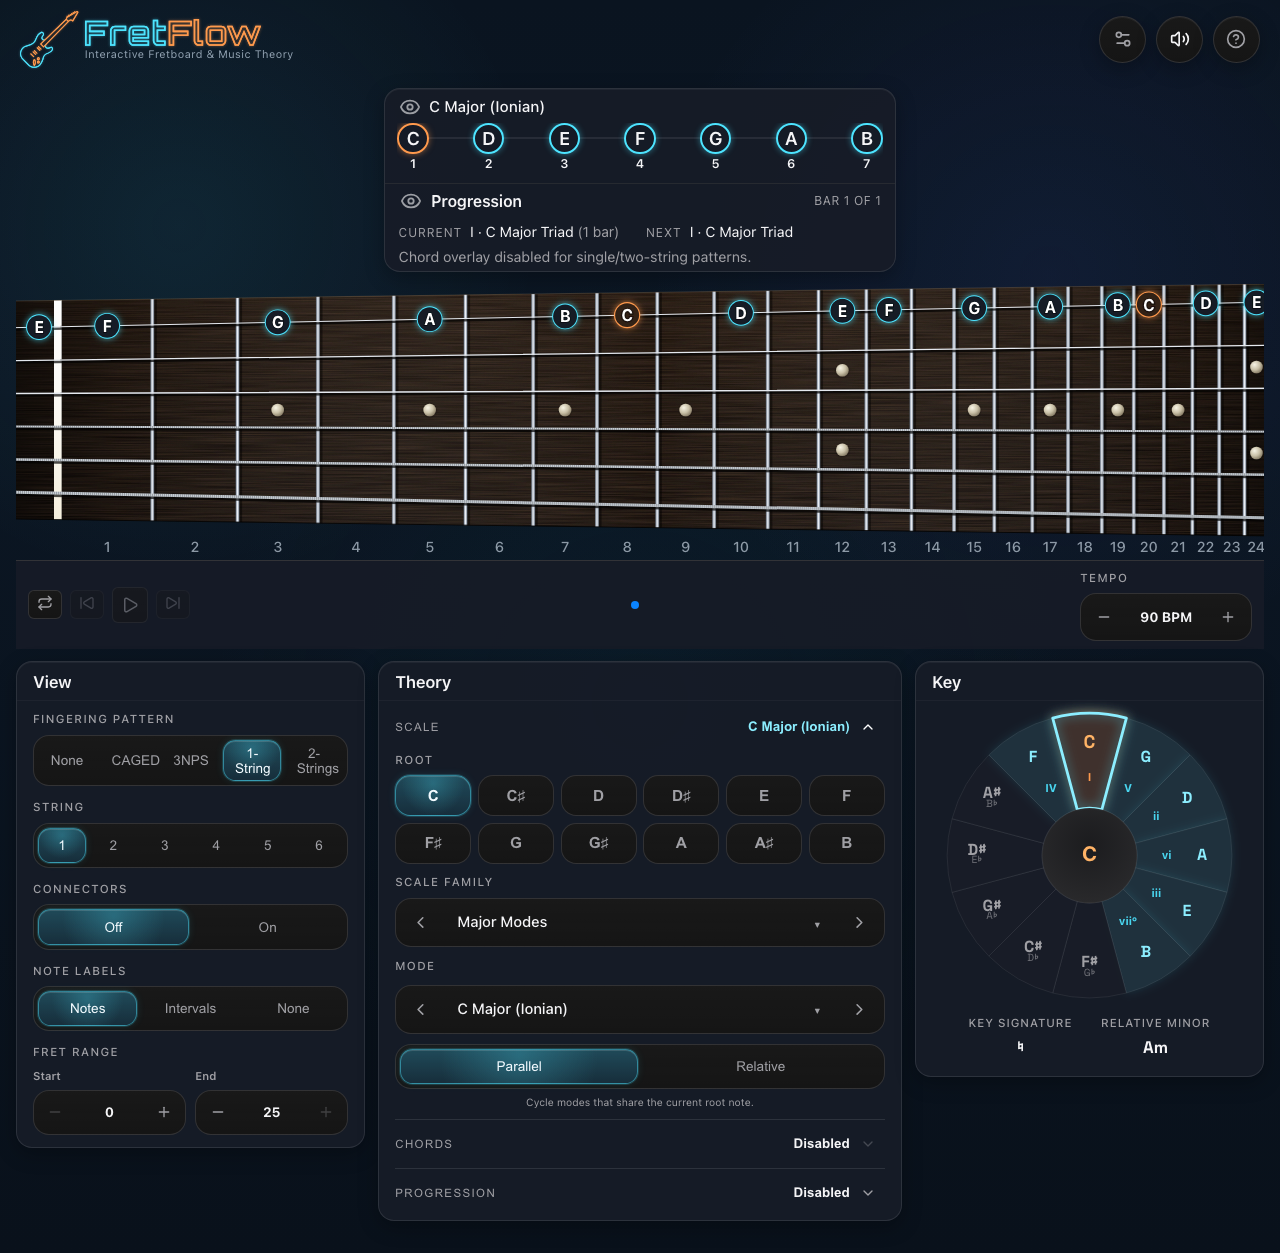
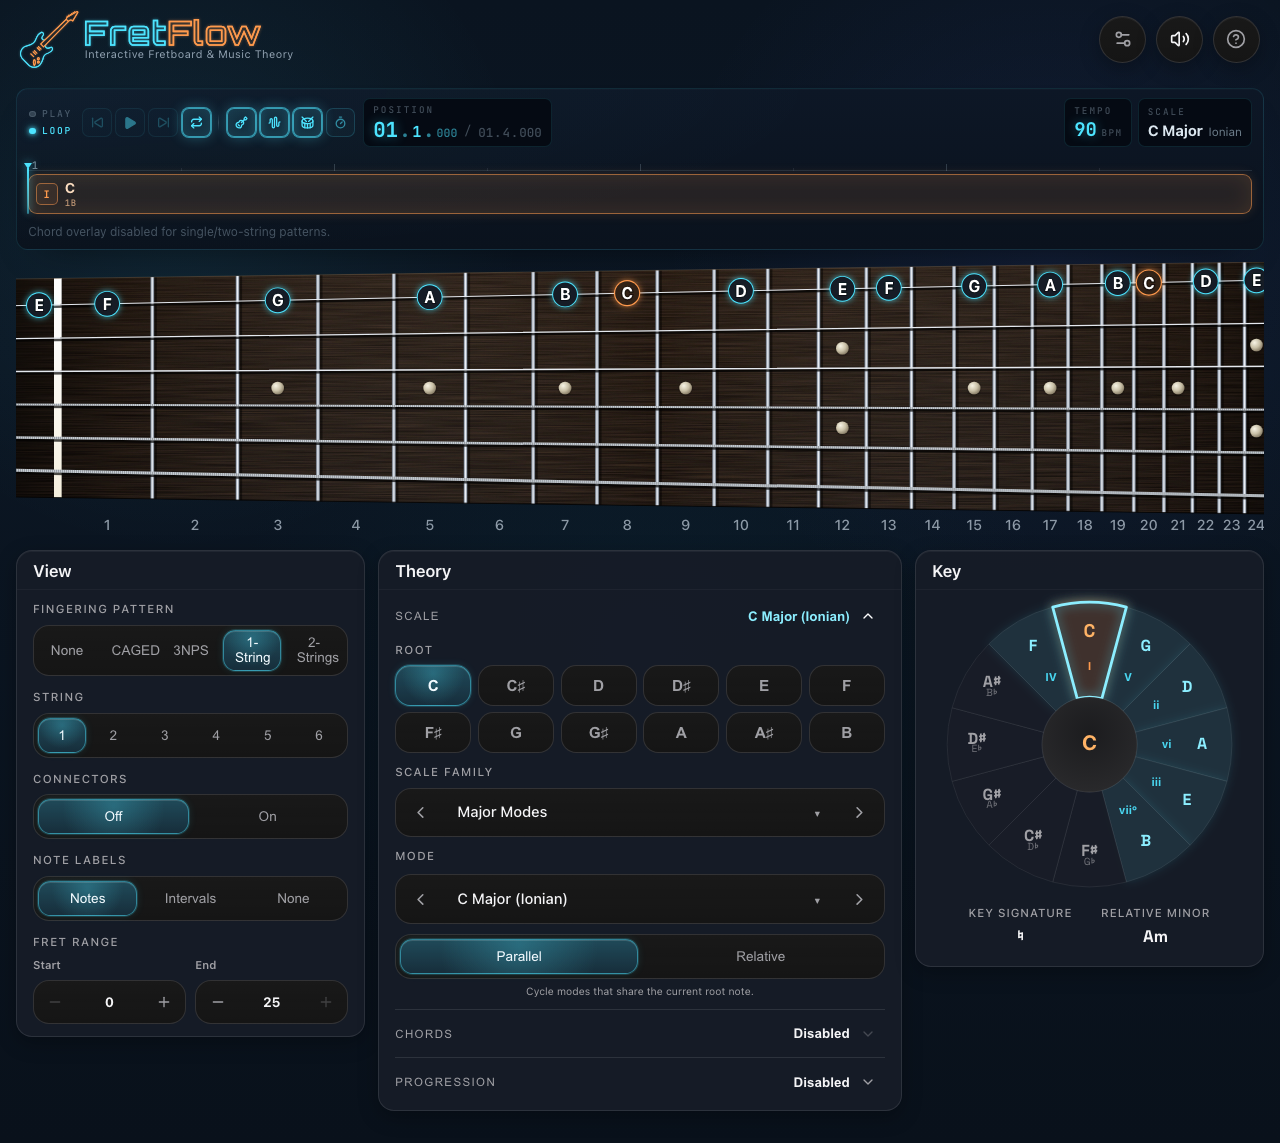
chore(progression): align e2e tests + refresh darwin snapshots
- Update progression visual tests to use the new `Progression track`
  aria-label (the old `Progression playback` PlaybackBar component was
  removed during the redesign)
- Surface `progressionPlaybackBlockedReason` as visible status text in
  the track when set, so the `progression-disabled-pattern` test sees
  the "Chord overlay disabled..." notice it expects
- Update the storage-persistence test: tempo is now a read-only readout
  in the track header (the editable stepper was dropped during the
  redesign), and chord rows match by `V G Dominant 7th` instead of the
  removed "Step N" prefix
- Remove the dead `ProgressionPlaybackBar` component + its tests
- Refresh darwin visual snapshots for the new transport-row layout
  (PLAY/LOOP at row start, divider sibling, blocked-reason notice)

diff --git a/e2e/storage-persistence.spec.ts b/e2e/storage-persistence.spec.ts
@@ -79,12 +79,15 @@ test.describe("storage persistence", () => {
     );
 
     await page.reload({ waitUntil: "domcontentloaded" });
-    await expect(page.getByRole("group", { name: "Progression playback" })).toBeVisible();
-    // Tempo is now a StepperControl (role=group, not spinbutton). Verify the
-    // decrease button carries the current value in its aria-label.
-    await expect(page.getByRole("button", { name: /Decrease Tempo \(current: 132\)/i })).toBeVisible();
+    const track = page.getByRole("group", { name: "Progression track" });
+    await expect(track).toBeVisible();
+    // Tempo is now a read-only readout in the track header. Verify the
+    // persisted value made the round trip.
+    await expect(track.getByText(/132\s*BPM/i)).toBeVisible();
+    // Open the Progression drawer to verify chord-row state survived too.
     await page.locator('button:has-text("Progression")').filter({ hasText: "bars" }).click();
-    // Chord rows no longer have a "Step N" prefix — check degree + chord name instead.
-    await expect(page.getByRole("button", { name: /V.*Dominant 7th.*2 bars/i })).toBeVisible();
+    // Chord rows no longer have a "Step N" prefix — check degree + chord name
+    // in the drawer specifically (the track's chord block also matches).
+    await expect(page.getByRole("button", { name: "V G Dominant 7th 2 bars" })).toBeVisible();
   });
 });

diff --git a/src/components/ProgressionTrack/ProgressionTrack.tsx b/src/components/ProgressionTrack/ProgressionTrack.tsx
@@ -265,7 +265,11 @@ export function ProgressionTrack() {
             ) : null}
           </div>
         </div>
-        {activeStep?.unavailable ? <p className={styles.statusNote}>{activeStep.unavailableReason}</p> : null}
+        {progressionPlaybackBlockedReason ? (
+          <p className={styles.statusNote} role="status">{progressionPlaybackBlockedReason}</p>
+        ) : activeStep?.unavailable ? (
+          <p className={styles.statusNote} role="status">{activeStep.unavailableReason}</p>
+        ) : null}
       </div>
     </section>
   );

diff --git a/e2e/progression.visual.spec.ts b/e2e/progression.visual.spec.ts
@@ -22,7 +22,7 @@ test.describe("Progression Visual", () => {
 
     await page.locator('button:has-text("Progression")').filter({ hasText: "bars" }).click();
     await expect(page.getByText("Progression Mode")).toBeVisible();
-    await expect(page.getByRole("group", { name: "Progression playback" })).toBeVisible();
+    await expect(page.getByRole("group", { name: "Progression track" })).toBeVisible();
     await expectFullPageVisual(page, "progression-desktop-1280x900", linuxTolerance);
   });
 
@@ -41,7 +41,7 @@ test.describe("Progression Visual", () => {
     );
 
     await expect(page.getByRole("heading", { name: "Progression" })).toBeVisible();
-    await expect(page.getByRole("group", { name: "Progression playback" })).toBeVisible();
+    await expect(page.getByRole("group", { name: "Progression track" })).toBeVisible();
     await expectFullPageVisual(page, "progression-mobile-390x844", linuxTolerance);
   });
 